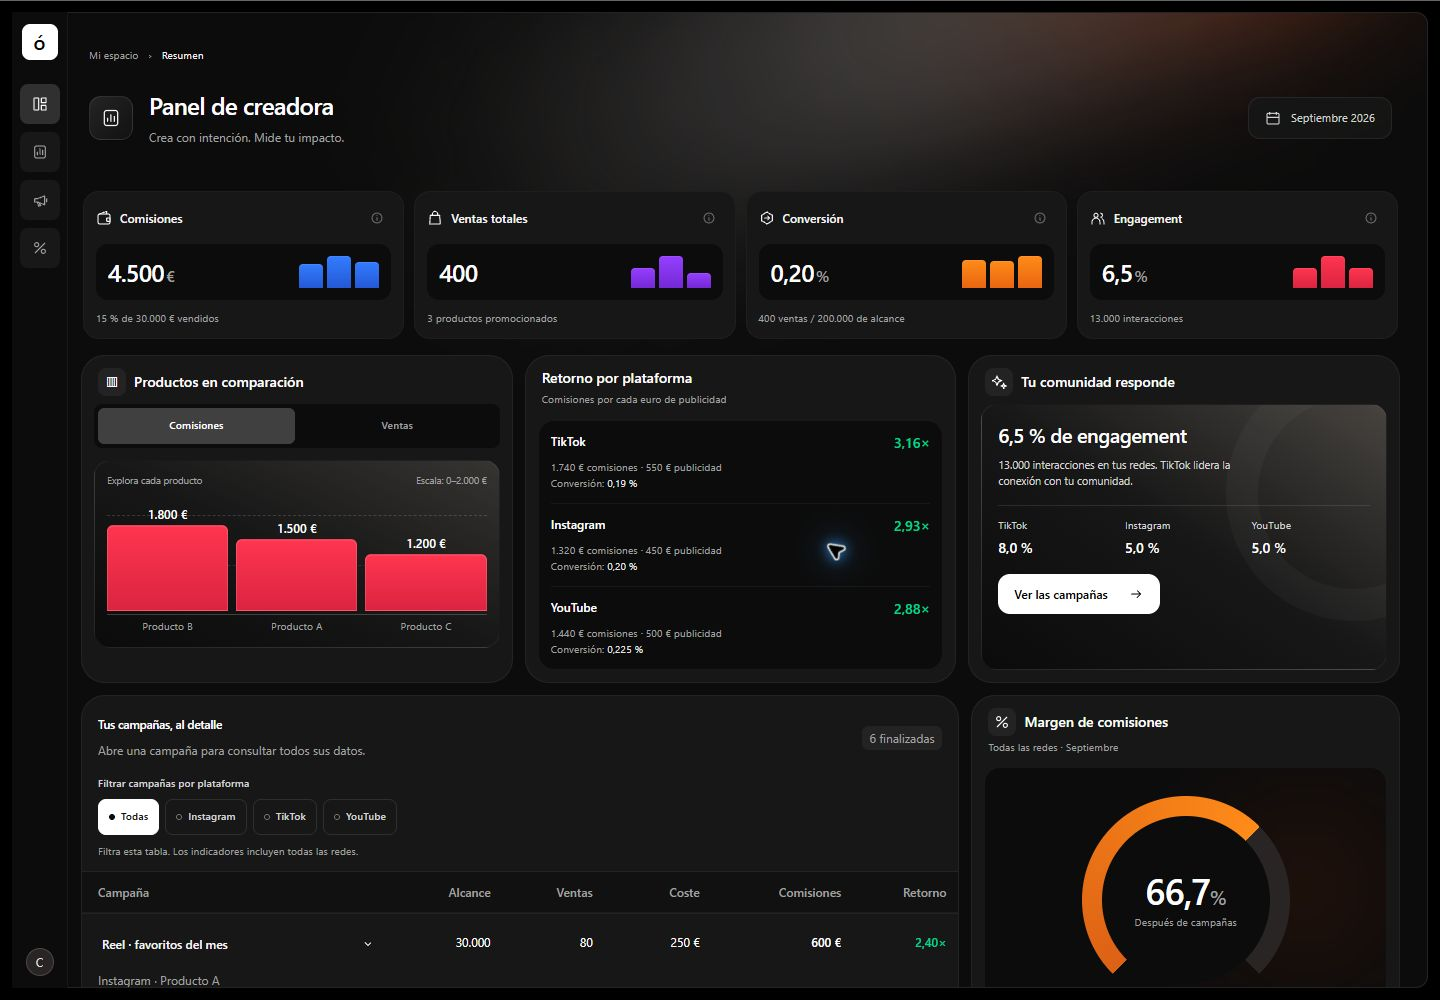
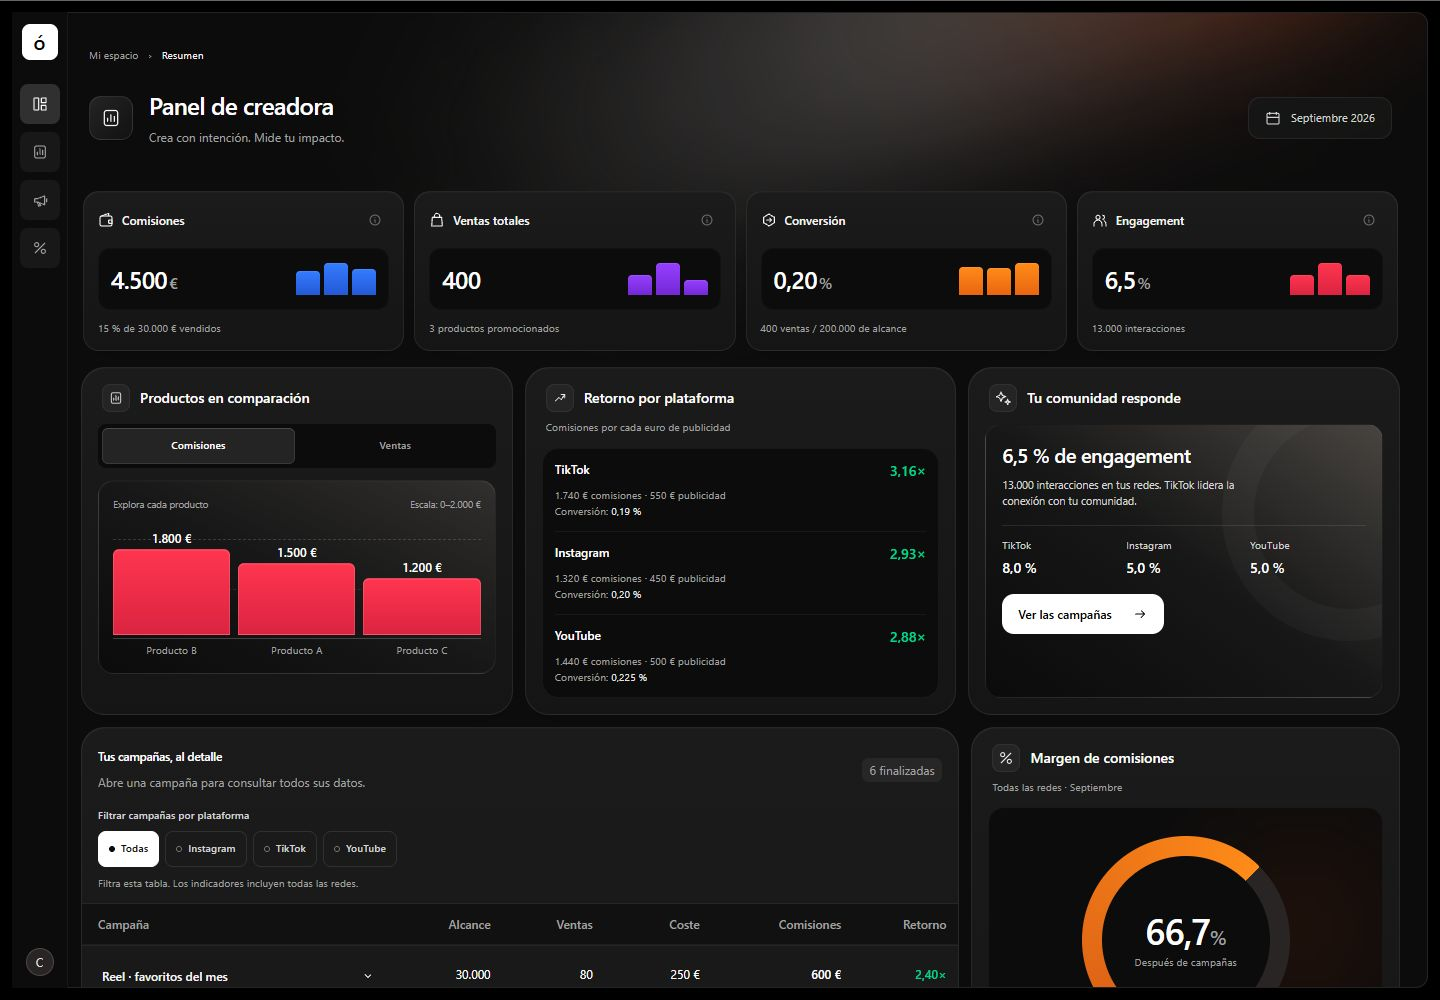
style: polish dashboard surfaces and control hierarchy

diff --git a/index.html b/index.html
@@ -200,7 +200,7 @@
             class="flex snap-x snap-mandatory gap-2.5 overflow-x-auto overscroll-x-contain rounded-2xl px-0.5 py-1 [scrollbar-width:thin] focus-visible:outline-2 focus-visible:outline-white/40 sm:grid sm:snap-none sm:grid-cols-2 sm:overflow-visible lg:grid-cols-4"
           >
             <article
-              class="flex min-w-0 shrink-0 basis-[85%] snap-start flex-col rounded-2xl sm:basis-auto border border-white/[0.03] bg-[#171717] p-3"
+              class="flex min-w-0 shrink-0 basis-[85%] snap-start flex-col rounded-2xl sm:basis-auto border border-white/[0.07] bg-linear-to-b from-[#1b1b1b] to-[#151515] p-3.5 shadow-[inset_0_1px_0_0_#ffffff06,0_8px_24px_-16px_#00000080]"
             >
               <div
                 class="flex items-center gap-2 text-xs font-medium text-neutral-100"
@@ -254,7 +254,7 @@
                 >
               </div>
               <div
-                class="mt-3 flex items-center justify-between gap-2 rounded-xl bg-[#0c0c0c] px-3 py-3"
+                class="mt-3.5 flex items-center justify-between gap-2 rounded-xl border border-white/[0.025] bg-[#0c0c0c] px-3 py-3.5"
               >
                 <span
                   class="whitespace-nowrap text-2xl font-medium tracking-tight tabular-nums"
@@ -267,7 +267,7 @@
               </p>
             </article>
             <article
-              class="flex min-w-0 shrink-0 basis-[85%] snap-start flex-col rounded-2xl sm:basis-auto border border-white/[0.03] bg-[#171717] p-3"
+              class="flex min-w-0 shrink-0 basis-[85%] snap-start flex-col rounded-2xl sm:basis-auto border border-white/[0.07] bg-linear-to-b from-[#1b1b1b] to-[#151515] p-3.5 shadow-[inset_0_1px_0_0_#ffffff06,0_8px_24px_-16px_#00000080]"
             >
               <div
                 class="flex items-center gap-2 text-xs font-medium text-neutral-100"
@@ -320,7 +320,7 @@
                 >
               </div>
               <div
-                class="mt-3 flex items-center justify-between gap-2 rounded-xl bg-[#0c0c0c] px-3 py-3"
+                class="mt-3.5 flex items-center justify-between gap-2 rounded-xl border border-white/[0.025] bg-[#0c0c0c] px-3 py-3.5"
               >
                 <span
                   class="whitespace-nowrap text-2xl font-medium tracking-tight tabular-nums"
@@ -333,7 +333,7 @@
               </p>
             </article>
             <article
-              class="flex min-w-0 shrink-0 basis-[85%] snap-start flex-col rounded-2xl sm:basis-auto border border-white/[0.03] bg-[#171717] p-3"
+              class="flex min-w-0 shrink-0 basis-[85%] snap-start flex-col rounded-2xl sm:basis-auto border border-white/[0.07] bg-linear-to-b from-[#1b1b1b] to-[#151515] p-3.5 shadow-[inset_0_1px_0_0_#ffffff06,0_8px_24px_-16px_#00000080]"
             >
               <div
                 class="flex items-center gap-2 text-xs font-medium text-neutral-100"
@@ -385,7 +385,7 @@
                 >
               </div>
               <div
-                class="mt-3 flex items-center justify-between gap-2 rounded-xl bg-[#0c0c0c] px-3 py-3"
+                class="mt-3.5 flex items-center justify-between gap-2 rounded-xl border border-white/[0.025] bg-[#0c0c0c] px-3 py-3.5"
               >
                 <span
                   class="whitespace-nowrap text-2xl font-medium tracking-tight tabular-nums"
@@ -398,7 +398,7 @@
               </p>
             </article>
             <article
-              class="flex min-w-0 shrink-0 basis-[85%] snap-start flex-col rounded-2xl sm:basis-auto border border-white/[0.03] bg-[#171717] p-3"
+              class="flex min-w-0 shrink-0 basis-[85%] snap-start flex-col rounded-2xl sm:basis-auto border border-white/[0.07] bg-linear-to-b from-[#1b1b1b] to-[#151515] p-3.5 shadow-[inset_0_1px_0_0_#ffffff06,0_8px_24px_-16px_#00000080]"
             >
               <div
                 class="flex items-center gap-2 text-xs font-medium text-neutral-100"
@@ -454,7 +454,7 @@
                 >
               </div>
               <div
-                class="mt-3 flex items-center justify-between gap-2 rounded-xl bg-[#0c0c0c] px-3 py-3"
+                class="mt-3.5 flex items-center justify-between gap-2 rounded-xl border border-white/[0.025] bg-[#0c0c0c] px-3 py-3.5"
               >
                 <span
                   class="whitespace-nowrap text-2xl font-medium tracking-tight tabular-nums"
@@ -483,13 +483,13 @@
           <div class="grid gap-3 md:grid-cols-2 lg:grid-cols-3">
             <article
               id="product-chart"
-              class="flex min-w-0 flex-col rounded-3xl border border-white/5 bg-[#171717] p-3"
+              class="flex min-w-0 flex-col rounded-3xl border border-white/[0.07] bg-linear-to-b from-[#1b1b1b] to-[#151515] p-3.5 shadow-[inset_0_1px_0_0_#ffffff06,0_8px_24px_-16px_#00000080] sm:p-4"
             >
-              <h3 class="mb-2 flex items-center gap-2 px-1 text-sm font-medium">
+              <h3 class="mb-3 flex items-center gap-2.5 px-1 text-sm font-medium">
                 <span
                   aria-hidden="true"
-                  class="flex size-7 items-center justify-center rounded-lg bg-white/5"
-                  >▥</span
+                  class="flex size-7 items-center justify-center rounded-lg border border-white/[0.06] bg-white/[0.045] text-neutral-200"
+                  ><svg class="size-3.5" viewBox="0 0 24 24" fill="none" stroke="currentColor" stroke-width="1.6" stroke-linecap="round" stroke-linejoin="round"><rect x="4" y="3" width="16" height="18" rx="3"></rect><path d="M8 16v-4M12 16V8M16 16v-6"></path></svg></span
                 >Productos en comparación
               </h3>
               <fieldset class="mb-3">
@@ -507,7 +507,7 @@
                       checked
                    ><label
                       for="chart-commission"
-                      class="flex min-h-9 cursor-pointer items-center justify-center rounded-md text-[0.65rem] font-medium text-neutral-400 hover:bg-white/5 peer-checked:bg-neutral-700 peer-checked:text-white peer-checked:hover:bg-neutral-600 peer-focus-visible:outline-2 peer-focus-visible:outline-white"
+                      class="flex min-h-9 cursor-pointer items-center justify-center rounded-md text-[0.65rem] font-medium text-neutral-400 hover:bg-white/5 peer-checked:bg-white/10 peer-checked:text-white peer-checked:shadow-[inset_0_1px_0_0_#ffffff15,0_1px_4px_#00000040] peer-checked:ring-1 peer-checked:ring-inset peer-checked:ring-white/10 peer-checked:hover:bg-white/15 peer-focus-visible:outline-2 peer-focus-visible:outline-white"
                       >Comisiones</label
                     >
                   </div>
@@ -520,14 +520,14 @@
                       class="peer sr-only"
                    ><label
                       for="chart-sales"
-                      class="flex min-h-9 cursor-pointer items-center justify-center rounded-md text-[0.65rem] font-medium text-neutral-400 hover:bg-white/5 peer-checked:bg-neutral-700 peer-checked:text-white peer-checked:hover:bg-neutral-600 peer-focus-visible:outline-2 peer-focus-visible:outline-white"
+                      class="flex min-h-9 cursor-pointer items-center justify-center rounded-md text-[0.65rem] font-medium text-neutral-400 hover:bg-white/5 peer-checked:bg-white/10 peer-checked:text-white peer-checked:shadow-[inset_0_1px_0_0_#ffffff15,0_1px_4px_#00000040] peer-checked:ring-1 peer-checked:ring-inset peer-checked:ring-white/10 peer-checked:hover:bg-white/15 peer-focus-visible:outline-2 peer-focus-visible:outline-white"
                       >Ventas</label
                     >
                   </div>
                 </div>
               </fieldset>
               <div
-                class="relative rounded-2xl border border-white/5 bg-linear-to-bl from-stone-600/50 via-neutral-900 to-[#0b0b0b] px-3 pt-3 pb-3"
+                class="relative rounded-2xl border border-white/[0.08] bg-linear-to-bl from-stone-600/40 via-neutral-900 to-[#0b0b0b] px-3.5 pt-4 pb-3.5 shadow-[inset_0_1px_0_0_#ffffff05]"
               >
                 <div
                   class="mb-1 flex justify-between text-[0.6rem] text-neutral-400"
@@ -709,11 +709,9 @@
               </div>
             </article>
             <article
-              class="flex min-w-0 flex-col rounded-3xl border border-white/5 bg-[#171717] p-3"
+              class="flex min-w-0 flex-col rounded-3xl border border-white/[0.07] bg-linear-to-b from-[#1b1b1b] to-[#151515] p-3.5 shadow-[inset_0_1px_0_0_#ffffff06,0_8px_24px_-16px_#00000080] sm:p-4"
             >
-              <h3 class="mb-1 px-1 text-sm font-medium">
-                Retorno por plataforma
-              </h3>
+              <h3 class="mb-2 flex items-center gap-2.5 px-1 text-sm font-medium"><span aria-hidden="true" class="flex size-7 items-center justify-center rounded-lg border border-white/[0.06] bg-white/[0.045] text-neutral-200"><svg class="size-3.5" viewBox="0 0 24 24" fill="none" stroke="currentColor" stroke-width="1.6" stroke-linecap="round" stroke-linejoin="round"><path d="M4 17l6-6 4 4 6-9M14 6h6v6"></path></svg></span>Retorno por plataforma</h3>
               <p class="mb-3 px-1 text-[0.65rem] text-neutral-400">
                 Comisiones por cada euro de publicidad
               </p>
@@ -765,11 +763,11 @@
               </dl>
             </article>
             <article
-              class="flex min-w-0 flex-col rounded-3xl border border-white/5 bg-[#171717] p-3 md:col-span-2 lg:col-span-1"
+              class="flex min-w-0 flex-col rounded-3xl border border-white/[0.07] bg-linear-to-b from-[#1b1b1b] to-[#151515] p-3.5 shadow-[inset_0_1px_0_0_#ffffff06,0_8px_24px_-16px_#00000080] sm:p-4 md:col-span-2 lg:col-span-1"
             >
-              <h3 class="mb-2 flex items-center gap-2 px-1 text-sm font-medium">
+              <h3 class="mb-3 flex items-center gap-2.5 px-1 text-sm font-medium">
                 <span
-                  class="flex size-7 items-center justify-center rounded-lg bg-white/5"
+                  class="flex size-7 items-center justify-center rounded-lg border border-white/[0.06] bg-white/[0.045] text-neutral-200"
                   ><svg
                     aria-hidden="true"
                     class="size-4"
@@ -844,7 +842,7 @@
           <section
             id="campanas"
             aria-labelledby="titulo-campanas"
-            class="[&:has(#filter-instagram:checked)_tbody_tr:not([data-platform=instagram])]:hidden [&:has(#filter-tiktok:checked)_tbody_tr:not([data-platform=tiktok])]:hidden [&:has(#filter-youtube:checked)_tbody_tr:not([data-platform=youtube])]:hidden scroll-mt-5 overflow-hidden sm:scroll-mt-6 rounded-3xl border border-white/5 bg-[#171717] target:ring-1 target:ring-white/25"
+            class="[&:has(#filter-instagram:checked)_tbody_tr:not([data-platform=instagram])]:hidden [&:has(#filter-tiktok:checked)_tbody_tr:not([data-platform=tiktok])]:hidden [&:has(#filter-youtube:checked)_tbody_tr:not([data-platform=youtube])]:hidden scroll-mt-5 overflow-hidden sm:scroll-mt-6 rounded-3xl border border-white/[0.07] bg-linear-to-b from-[#1b1b1b] to-[#151515] shadow-[inset_0_1px_0_0_#ffffff06,0_8px_24px_-16px_#00000080] target:ring-1 target:ring-white/25"
           >
             <div
               class="flex flex-wrap items-center justify-between gap-2 px-4 pt-5 sm:px-4"
@@ -1599,14 +1597,14 @@
           <section
             id="retorno"
             aria-labelledby="titulo-retorno"
-            class="scroll-mt-5 rounded-3xl sm:scroll-mt-5 border border-white/5 bg-[#171717] p-3 target:ring-1 target:ring-white/25"
+            class="scroll-mt-5 rounded-3xl sm:scroll-mt-5 border border-white/[0.07] bg-linear-to-b from-[#1b1b1b] to-[#151515] p-3.5 shadow-[inset_0_1px_0_0_#ffffff06,0_8px_24px_-16px_#00000080] sm:p-4 target:ring-1 target:ring-white/25"
           >
             <h2
               id="titulo-retorno"
-              class="mb-2 flex items-center gap-2 px-1 text-sm font-medium"
+              class="mb-3 flex items-center gap-2.5 px-1 text-sm font-medium"
             >
               <span
-                class="flex size-7 items-center justify-center rounded-lg bg-white/5"
+                class="flex size-7 items-center justify-center rounded-lg border border-white/[0.06] bg-white/[0.045] text-neutral-200"
                 ><svg
                   aria-hidden="true"
                   class="size-4"
